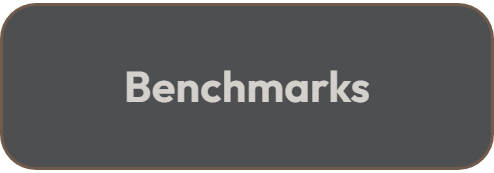
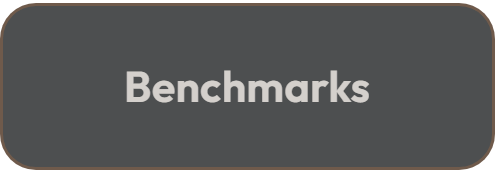
README: equal-width Download/Benchmarks so FAQ centres under Demo

Changed region(s): [[0.334, 0.4046, 0.7591, 0.6069], [0.4555, 0.4046, 0.4858, 0.4624], [0.2733, 0.5202, 0.3036, 0.5491]]

diff --git a/README.md b/README.md
@@ -26,11 +26,11 @@
 <p align="center">
   <a href="https://varianttech.net/demo"><img src="https://raw.githubusercontent.com/oooscoos/Benzi/main/assets/cta2_demo.png" width="140" alt="Demo"></a>
   <br>
-  <a href="#getting-started"><img src="https://raw.githubusercontent.com/oooscoos/Benzi/main/assets/cta2_download.png" width="136" alt="Download"></a>
+  <a href="#getting-started"><img src="https://raw.githubusercontent.com/oooscoos/Benzi/main/assets/cta2_download.png" width="149" alt="Download"></a>
   &nbsp;&nbsp;&nbsp;&nbsp;
   <a href="#faq"><img src="https://raw.githubusercontent.com/oooscoos/Benzi/main/assets/cta2_faq.png" width="101" alt="FAQ"></a>
   &nbsp;&nbsp;&nbsp;&nbsp;
-  <a href="https://varianttech.net/benchmark"><img src="https://raw.githubusercontent.com/oooscoos/Benzi/main/assets/cta2_benchmarks.png" width="148" alt="Benchmarks"></a>
+  <a href="https://varianttech.net/benchmark"><img src="https://raw.githubusercontent.com/oooscoos/Benzi/main/assets/cta2_benchmarks.png" width="149" alt="Benchmarks"></a>
 </p>
 
 <img src="https://raw.githubusercontent.com/oooscoos/Benzi/main/assets/divider_gold.png" width="100%" alt="">
